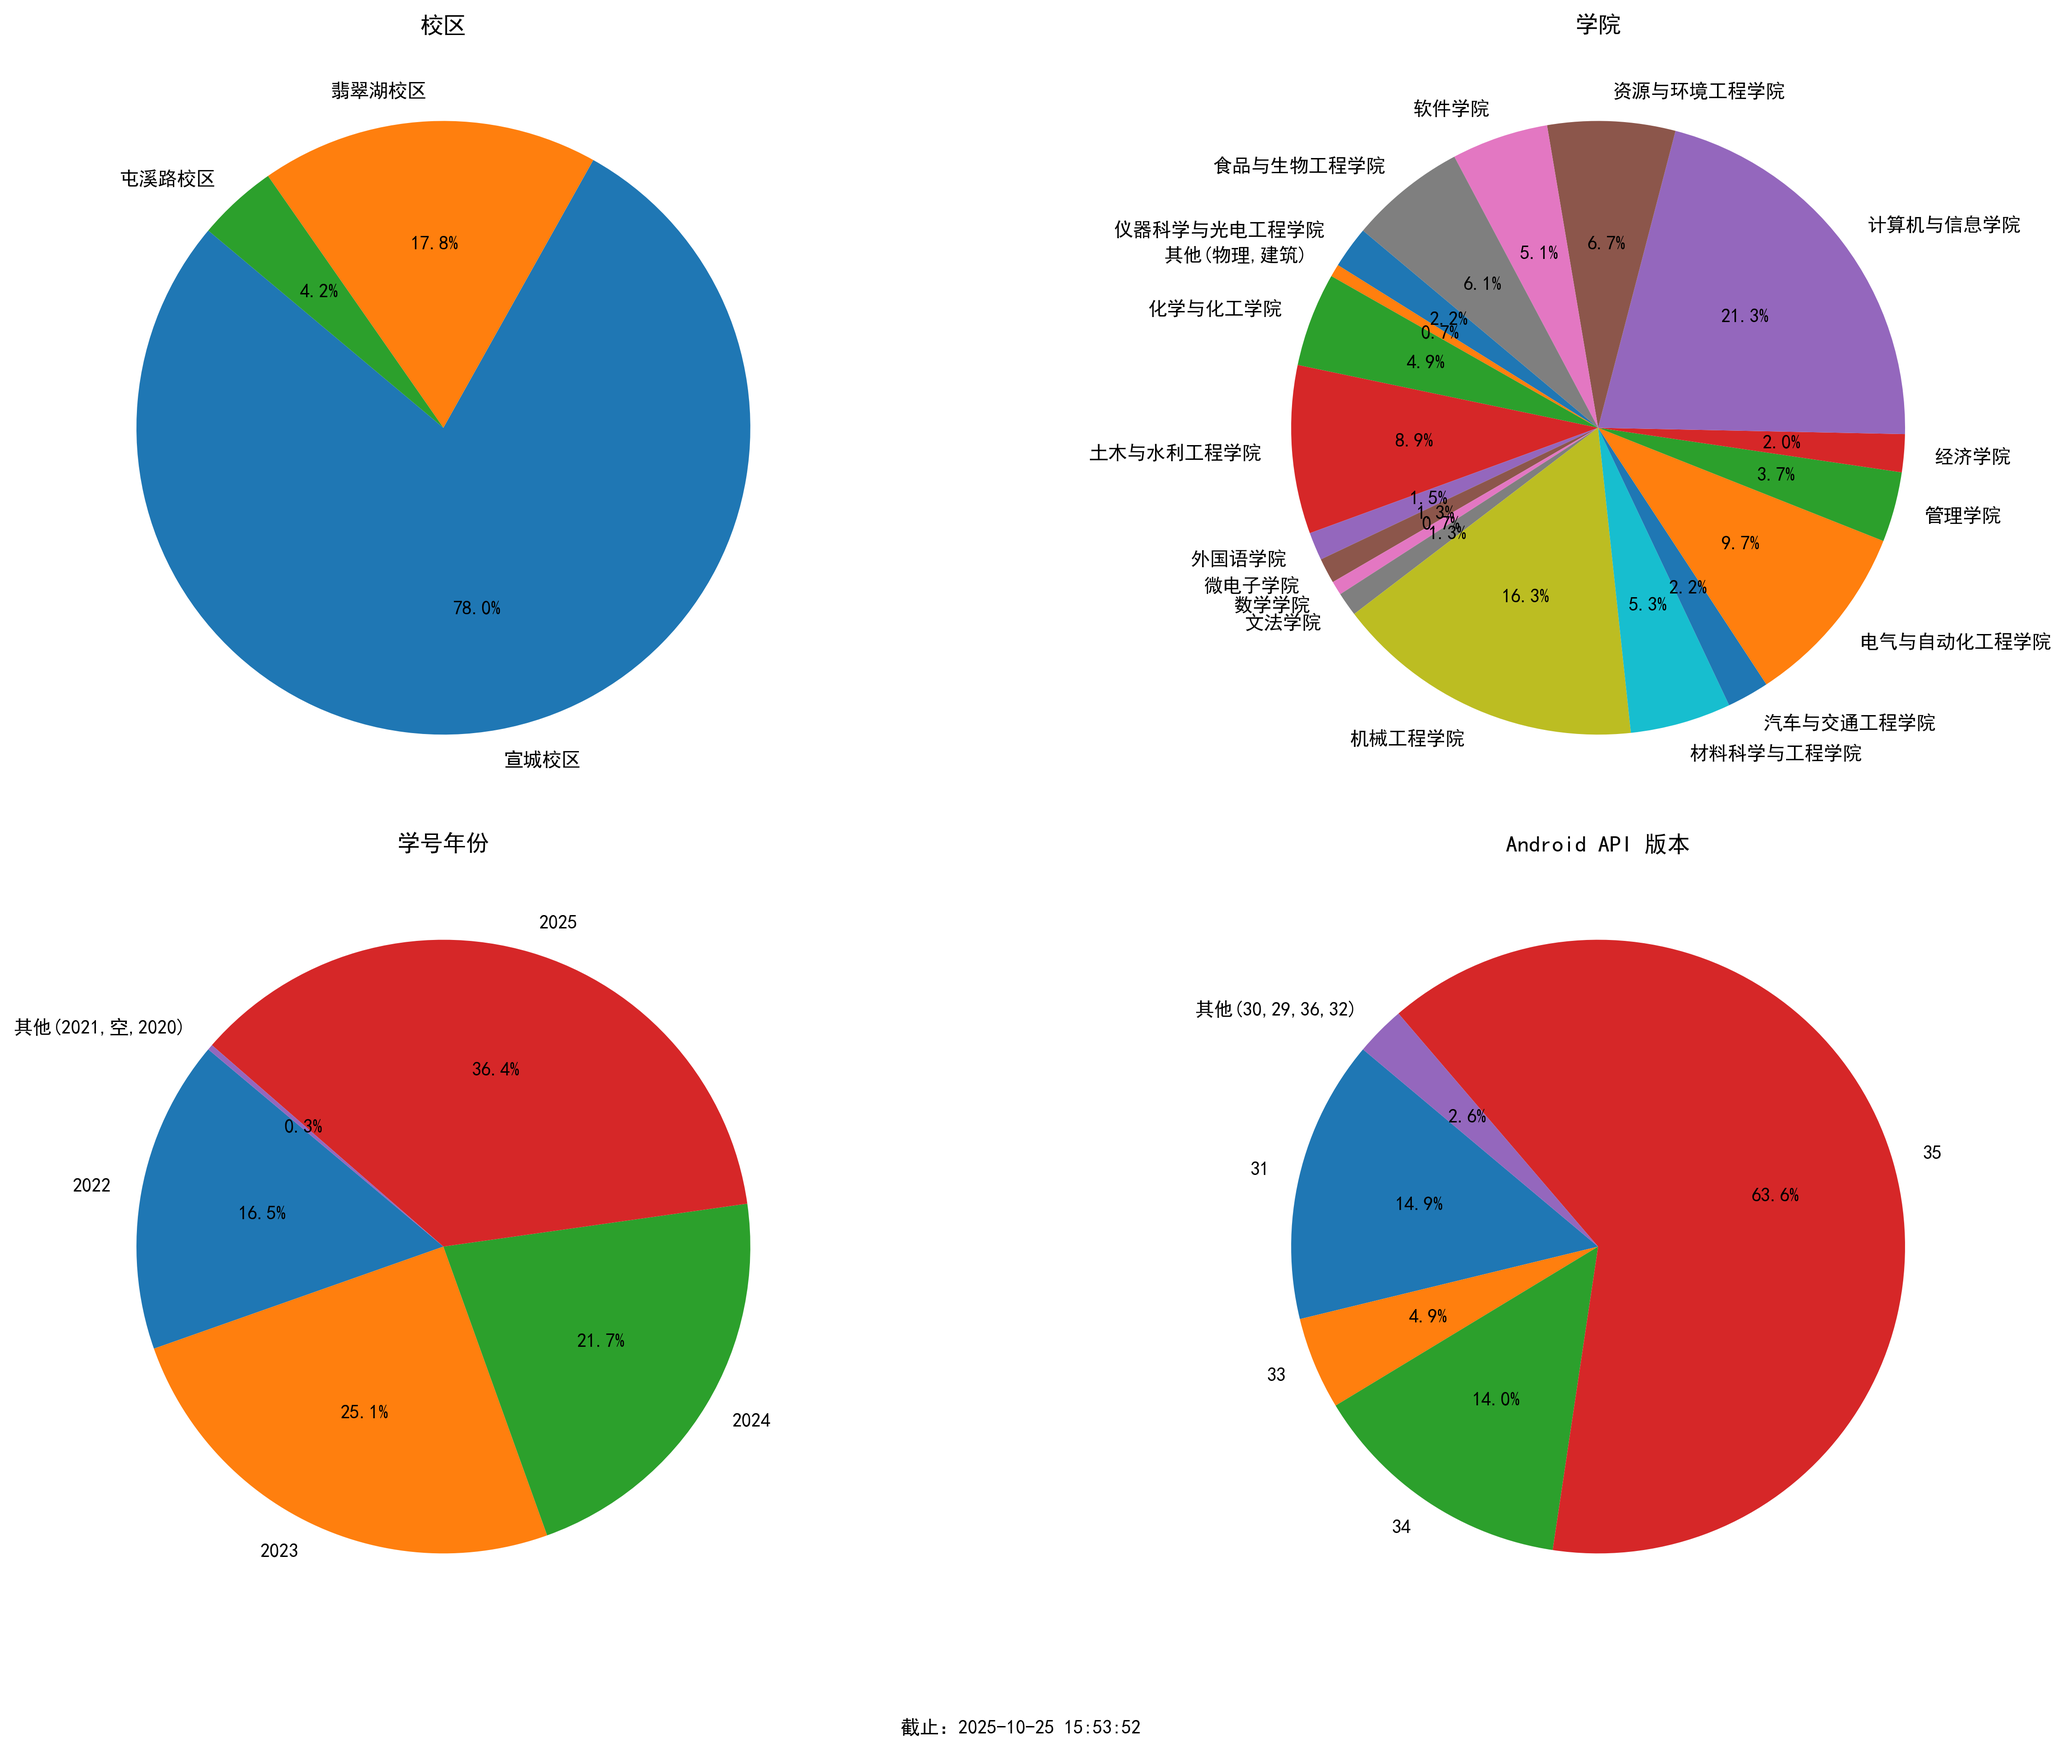
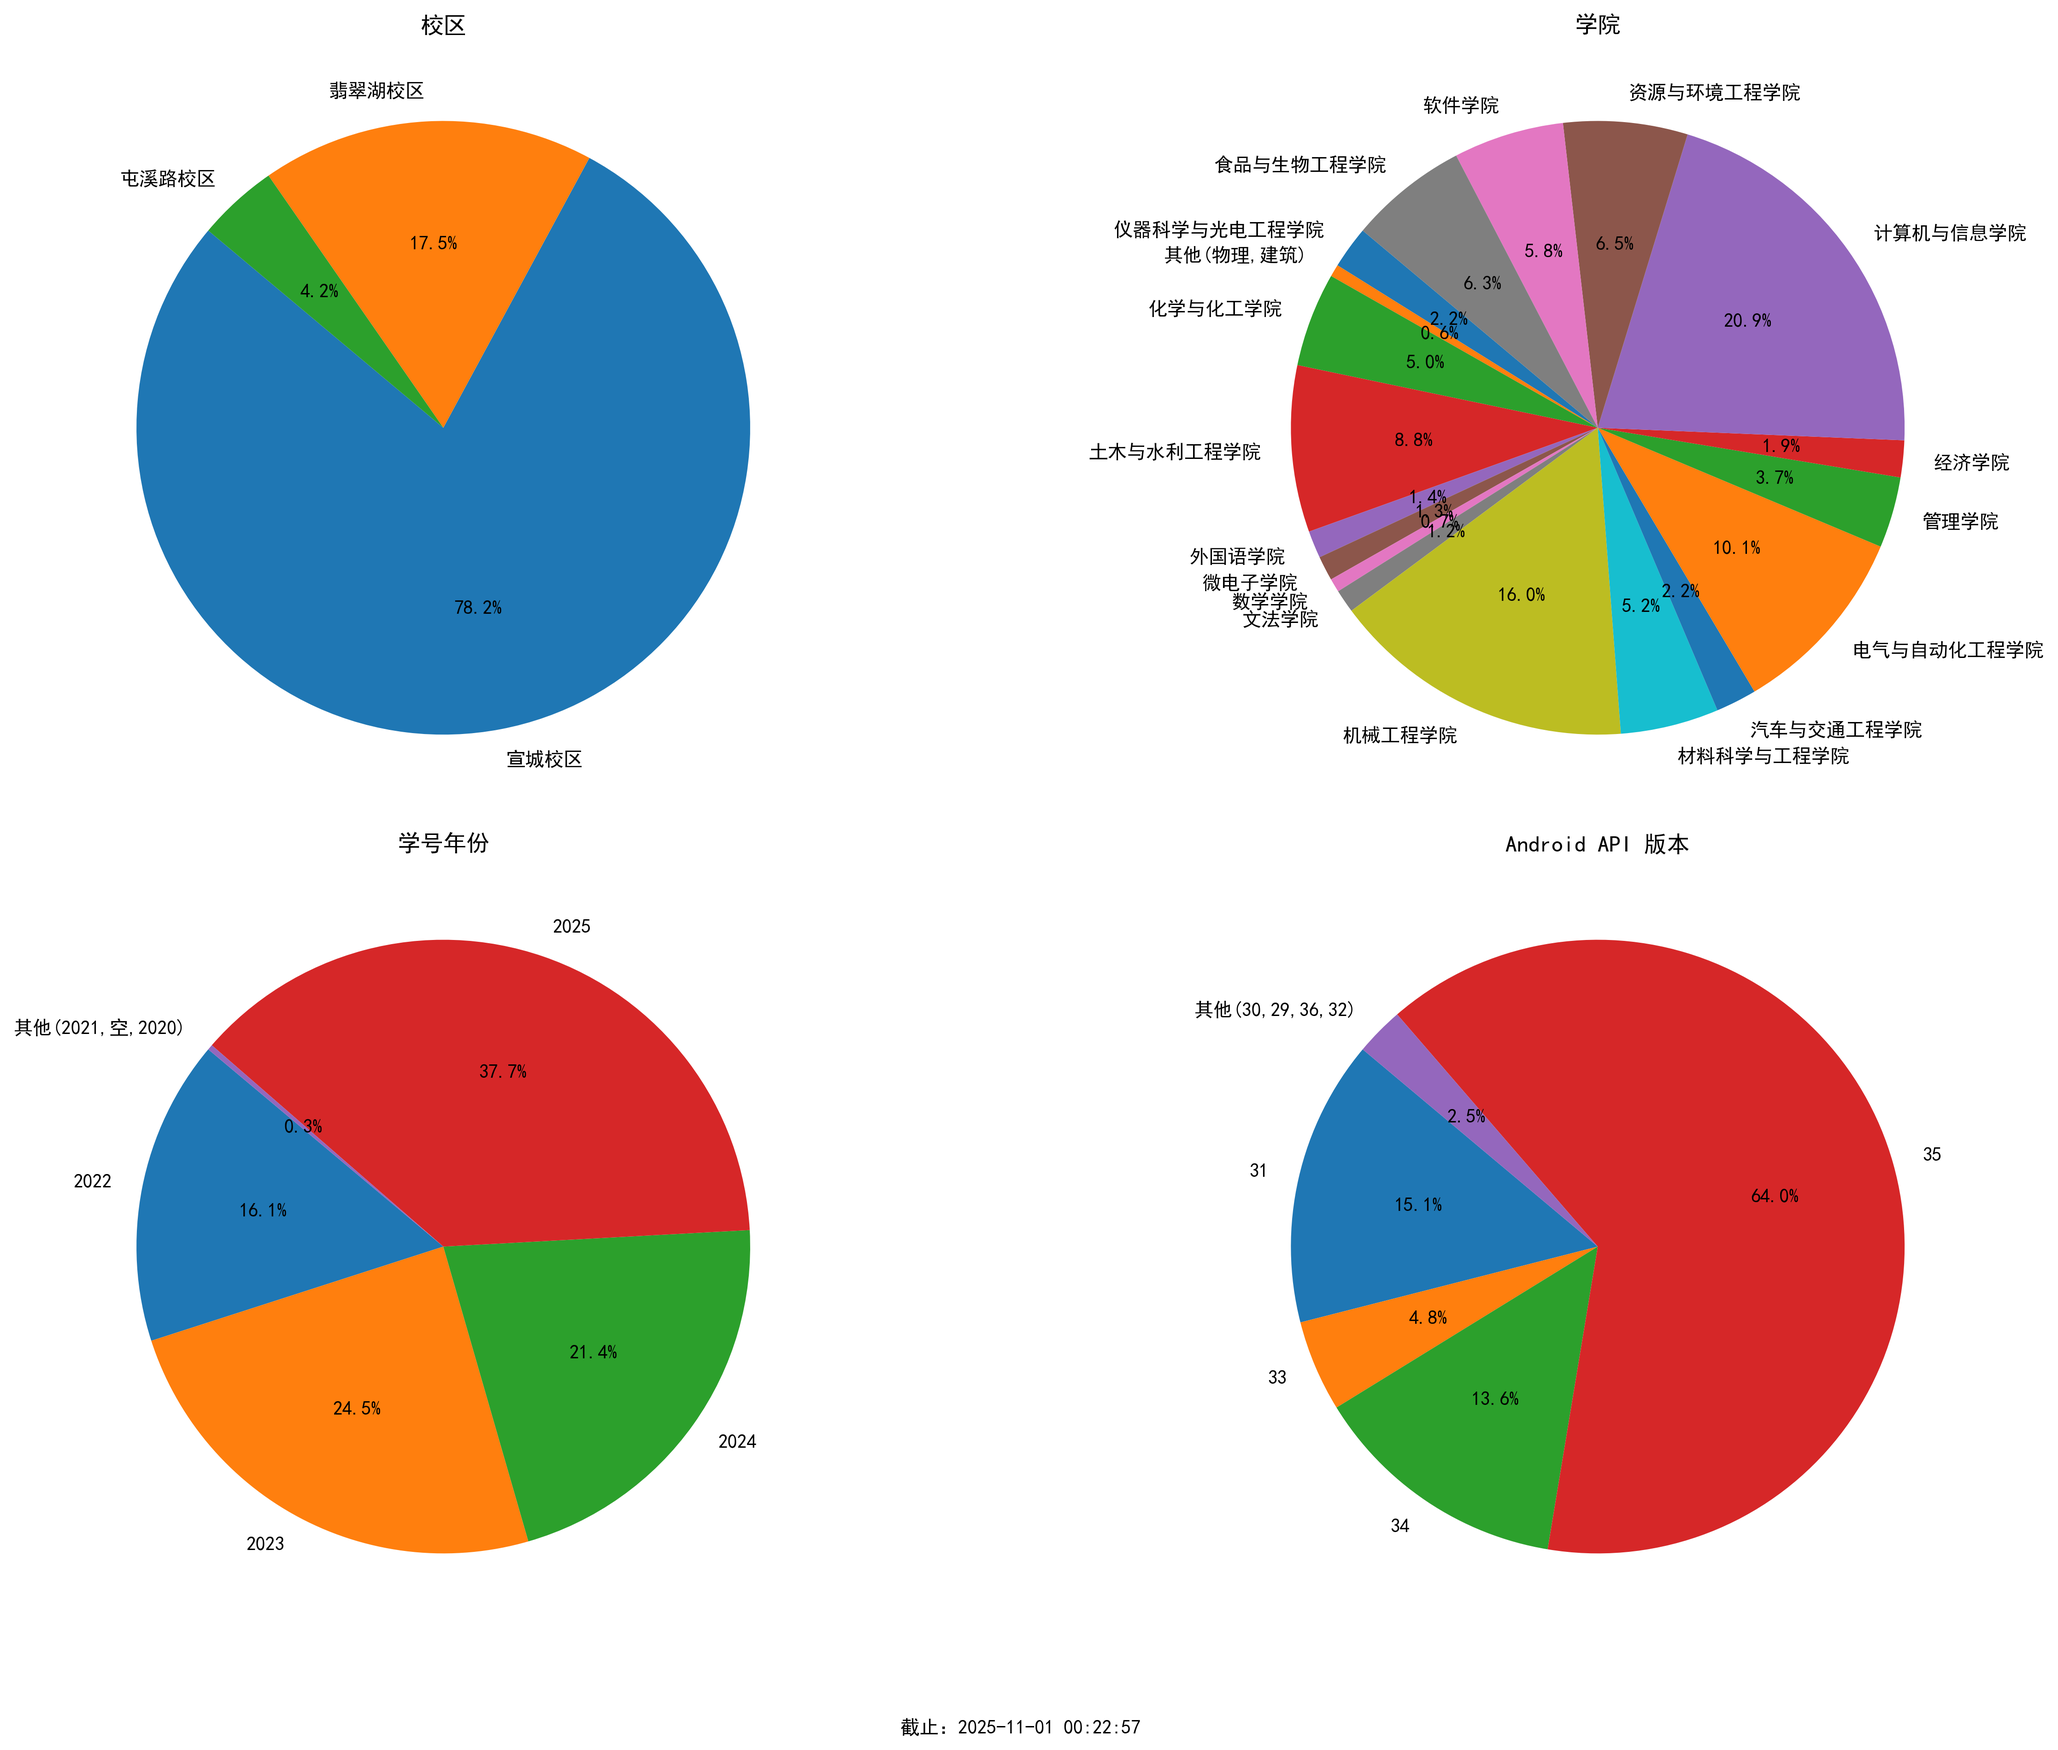
修复版本分布统计图

diff --git a/app/src/main/java/com/hfut/schedule/ui/screen/home/calendar/timetable/SingleSquareTimeTable.kt b/app/src/main/java/com/hfut/schedule/ui/screen/home/calendar/timetable/SingleSquareTimeTable.kt
@@ -19,6 +19,7 @@ import androidx.compose.ui.platform.LocalDensity
 import androidx.compose.ui.unit.Dp
 import androidx.compose.ui.unit.IntOffset
 import androidx.compose.ui.unit.dp
+import com.hfut.schedule.application.MyApplication
 import com.hfut.schedule.ui.component.container.CARD_NORMAL_DP
 import com.xah.uicommon.style.padding.InnerPaddingHeight
 import kotlin.math.roundToInt
@@ -109,7 +110,7 @@ fun TimetableSingleSquare(
     innerPadding : PaddingValues,
     startHour: Int = 8,
     endHour: Int = 24,
-    hourHeight: Dp = 70.dp,
+    hourHeight: Dp = MyApplication.CALENDAR_SQUARE_HEIGHT_NEW.dp,
     showAll: Boolean = true,
     showLine : Boolean = false,
     zipTime : List<Pair<Float, Float>> = listOf(
@@ -160,21 +161,21 @@ fun TimetableSingleSquare(
 
                     val positioned = layoutSquaresForDay(dayCourses)
 
-                    positioned.forEach { p ->
+                    positioned.forEach { item ->
                         // 每列的左右各留 paddingPx 给虚线
                         // 列内并列的 item 之间也应有 gap = paddingPx
                         val xBase = dayIndex * columnWidthPx
                         val innerAvailablePx = columnWidthPx - 2 * paddingPx // 去掉列左右留白
-                        val columns = p.totalColumns.coerceAtLeast(1)
+                        val columns = item.totalColumns.coerceAtLeast(1)
                         val gapPx = paddingPx // 并列间隙使用 same everyPadding
                         val totalGapsWidth = gapPx * (columns - 1)
                         val singleWidthPx = (innerAvailablePx - totalGapsWidth) / columns
                         // 防止负宽（极端情况）
                         val safeSingleWidthPx = if (singleWidthPx > 0f) singleWidthPx else (innerAvailablePx / columns)
 
-                        val xOffset = xBase + paddingPx + (safeSingleWidthPx + gapPx) * p.columnIndex
-                        val yStart = timeToY(p.start, hourPx, startHour, zipTime,zipTimeFactor)
-                        val yEnd = timeToY(p.end, hourPx, startHour,zipTime,zipTimeFactor)
+                        val xOffset = xBase + paddingPx + (safeSingleWidthPx + gapPx) * item.columnIndex
+                        val yStart = timeToY(item.start, hourPx, startHour, zipTime,zipTimeFactor)
+                        val yEnd = timeToY(item.end, hourPx, startHour,zipTime,zipTimeFactor)
                         val heightPx = yEnd - yStart
 
                         Box (
@@ -183,7 +184,7 @@ fun TimetableSingleSquare(
                                 .width(with(density) { safeSingleWidthPx.toDp() })
                                 .height(with(density) { heightPx.toDp() }),
                         ) {
-                            content(p.course)
+                            content(item.course)
                         }
                     }
                 }

diff --git a/app/src/main/java/com/hfut/schedule/ui/component/Video.kt b/app/src/main/java/com/hfut/schedule/ui/component/Video.kt
@@ -28,15 +28,12 @@ import androidx.compose.ui.Alignment
 import androidx.compose.ui.Modifier
 import androidx.compose.ui.draw.blur
 import androidx.compose.ui.graphics.Color
-import androidx.compose.ui.graphics.Shape
 import androidx.compose.ui.res.painterResource
-import androidx.compose.ui.unit.Dp
 import androidx.compose.ui.unit.dp
 import androidx.compose.ui.viewinterop.AndroidView
 import androidx.compose.ui.zIndex
 import com.hfut.schedule.R
 import com.hfut.schedule.ui.component.button.LiquidButton
-import com.hfut.schedule.ui.component.container.CustomCard
 import com.hfut.schedule.ui.style.special.backDropSource
 import com.hfut.schedule.ui.util.webview.isThemeDark
 import com.kyant.backdrop.backdrops.rememberLayerBackdrop

diff --git a/app/src/main/java/com/hfut/schedule/application/MyApplication.kt b/app/src/main/java/com/hfut/schedule/application/MyApplication.kt
@@ -18,7 +18,7 @@ class MyApplication : Application() {
         lateinit var context: Context
         // 方格默认高度
         const val CALENDAR_SQUARE_HEIGHT = 125f
-        const val CALENDAR_SQUARE_HEIGHT_NEW = 70f
+        const val CALENDAR_SQUARE_HEIGHT_NEW = 65f
         // HAZE模糊半径
         const val BLUR_RADIUS = 20
         // 宣城校区免费流量额度 GiB

diff --git a/app/src/main/java/com/hfut/schedule/ui/screen/home/calendar/timetable/NewTimeTable.kt b/app/src/main/java/com/hfut/schedule/ui/screen/home/calendar/timetable/NewTimeTable.kt
@@ -80,7 +80,7 @@ fun Timetable(
     innerPadding : PaddingValues,
     startHour: Int = 8,
     endHour: Int = 24,
-    hourHeight: Dp = 70.dp,
+    hourHeight: Dp = 65.dp,
     showAll: Boolean = true,
     showLine : Boolean = false,
     zipTime : List<Pair<Float, Float>> = listOf(

diff --git a/tools/SQL-Chart-Python/chart.py b/tools/SQL-Chart-Python/chart.py
@@ -12,7 +12,7 @@ def parse_datetime_flexible(s):
     except ValueError:
         return datetime.strptime(s, "%Y-%m-%d %H:%M:%S")
 
-def merge_small_categories(series, threshold=0.01):
+def merge_small_categories(series, threshold=0.01, show_subitems=True):
     total = series.sum()
     small_items = [idx for idx, val in series.items() if val / total < threshold]
 
@@ -22,16 +22,20 @@ def merge_small_categories(series, threshold=0.01):
     grouped = series.groupby(group_func).sum()
 
     if '其他' in grouped.index and small_items:
-        # 省略学院
-        other_items = [
-            str(x)[:2] if "学院" in str(x) else str(x)
-            for x in small_items
+        if show_subitems:
+            # 省略学院
+            other_items = [
+                str(x)[:2] if "学院" in str(x) else str(x)
+                for x in small_items
             ]
-        other_label = f"其他({','.join(other_items)})" if other_items else "其他"
+            other_label = f"其他({','.join(other_items)})" if other_items else "其他"
+        else:
+            other_label = "其他"
 
         grouped = grouped.rename(index={'其他': other_label})
 
     return grouped
+
 
 def get_last_time() :
     query = "SELECT * FROM user_app_usage"  # 替换为你的表名
@@ -144,7 +148,7 @@ WHERE rn = 1;
     fig.text(0.5, -0.05, get_last_time(), ha='center', fontsize=10)
     plt.savefig("pie_charts.png", bbox_inches="tight",dpi=300)
 
-def build_app_version_chart() :
+def build_app_version_chart():
     # 从数据库中获取最新版本数据
     query = """
 WITH usage_with_max_date AS (
@@ -173,14 +177,13 @@ FROM latest_version_per_user
 ORDER BY app_version_code DESC, student_id;
 """
 
-
     df_latest = pd.read_sql_query(query, conn)
 
     # 按版本名称统计
     version_counts = df_latest['app_version_name'].value_counts()
 
     # 合并小类（可选）
-    version_counts = merge_small_categories(version_counts, threshold=0.005)
+    version_counts = merge_small_categories(version_counts, threshold=0.0025, show_subitems=False)
 
     # 放大图像
     plt.figure(figsize=(14, 14))
@@ -192,11 +195,16 @@ ORDER BY app_version_code DESC, student_id;
     )
 
     plt.ylabel("")
-    plt.figtext(0.25, 0.5, get_last_time(), ha='center', fontsize=10)
-    plt.title('应用版本分布', fontsize=20)  # 标题大一点
-    plt.tight_layout()
-    plt.savefig("app_version.png", bbox_inches="tight", dpi=300)  # 提高分辨率)
 
+    # 设置标题居中在图上方
+    plt.title('应用版本分布', fontsize=20, y=1.05)  # y>1可以把标题稍微移出图形区域
+
+    # 在标题下方放置时间信息
+    plt.figtext(0.5, 0.02, get_last_time(), ha='center', fontsize=10)  # y位置靠下
+
+    plt.tight_layout()
+    plt.savefig("app_version.png", bbox_inches="tight", dpi=300)
+    plt.close()
 
 if(__name__ == "__main__"):
     # 设置全局字体为支持中文的字体（根据系统设置不同）

diff --git a/docs/CHART.md b/docs/CHART.md
@@ -1,12 +1,16 @@
 # 统计报表
 
 ## 项目代码量
-以Static插件统计aidl,java,kt,py,sql的总行数减去空行数，截止1015-10-16T20:27为**66119**行(66k+)
+不包括增量更新、镜面效果两个模块(已发布至JitPack)，以Static插件统计aidl,java,kt,py,sql的总行数减去空行数，截止1015-10-31T18:18为**66744行**，其中Kotlin占比**99.12%**
 
+## Star
 [![Star history chart](https://api.star-history.com/svg?repos=Chiu-xaH/HFUT-SChedule&type=Date)](https://www.star-history.com/#Chiu-xaH/HFUT-Schedule&Date)
 
+## 访问量
 ![流量统计](/tools/SQL-Chart-Python/visits.png)
 
+## 用户版本分布
 ![版本分布](/tools/SQL-Chart-Python/app_version.png)
 
+## 用户分布
 ![用户分布](/tools/SQL-Chart-Python/pie_charts.png)
